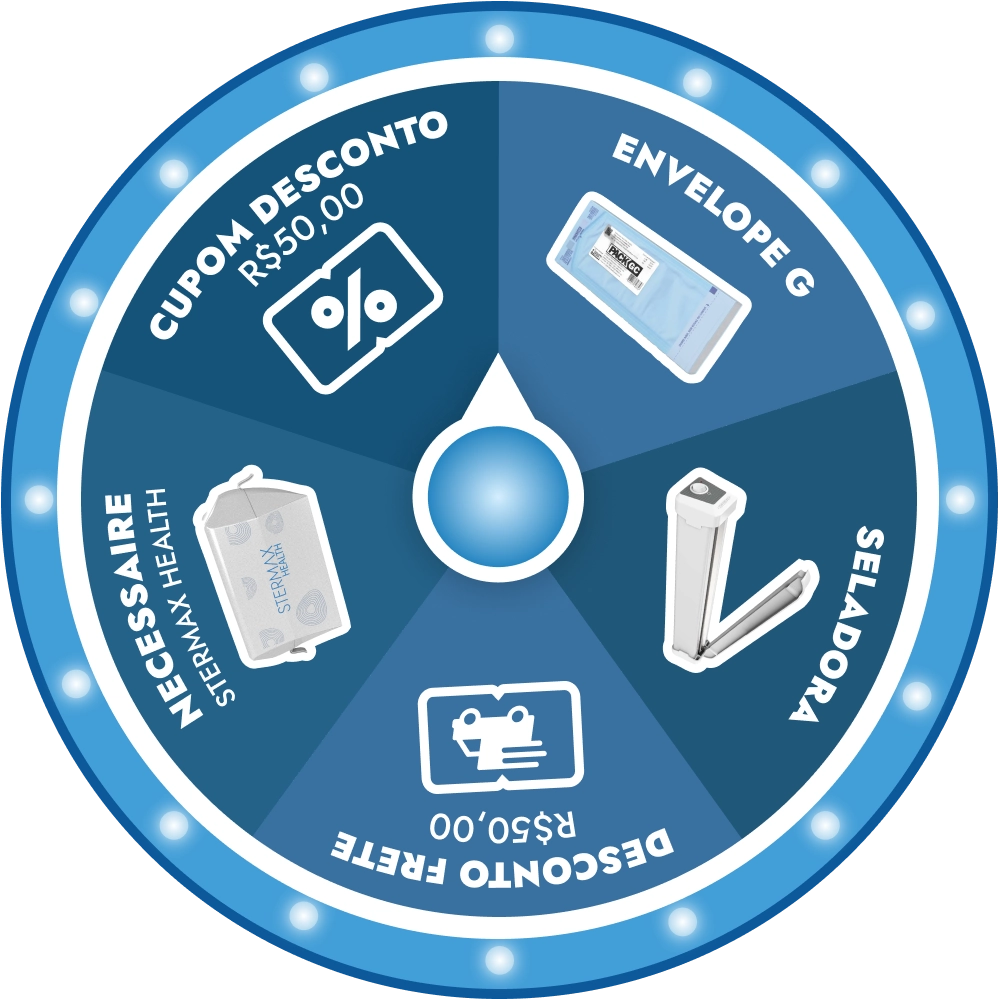
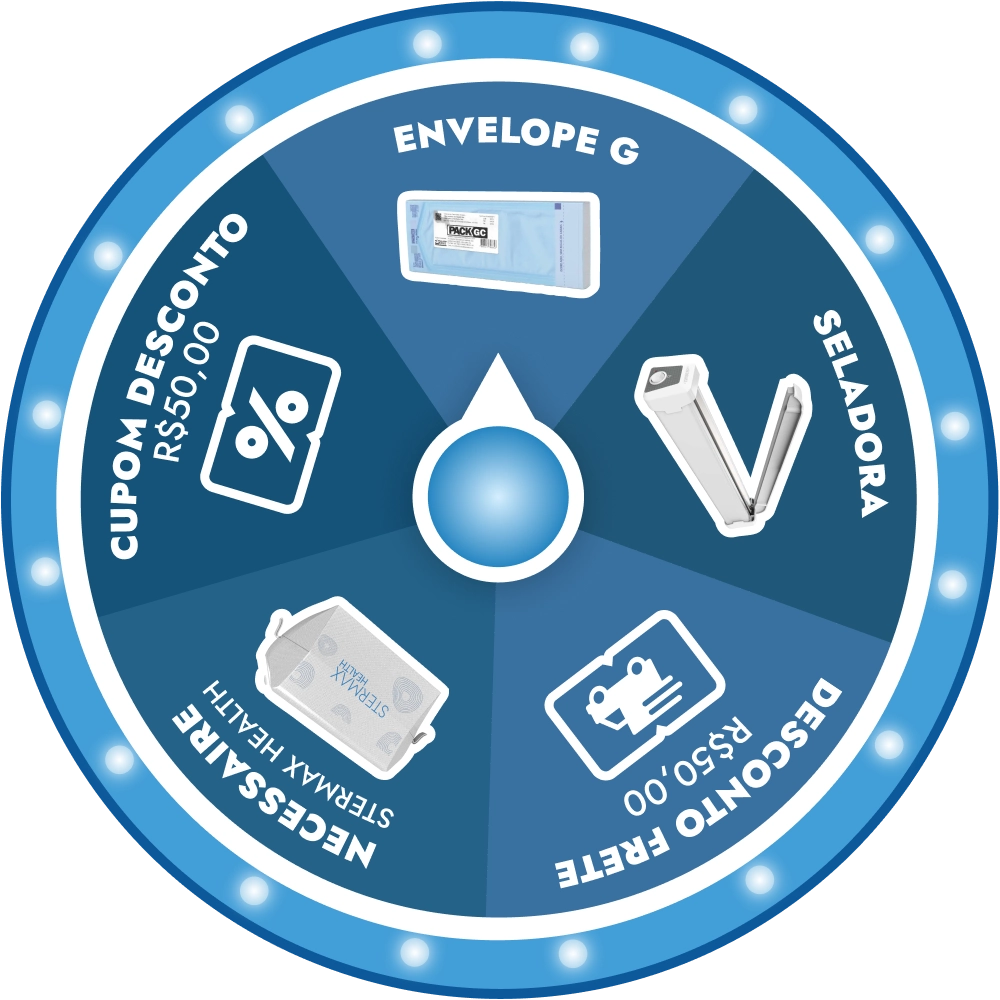
ajustes layout desktop

diff --git a/styles/css/vtex.store-newsletter.css b/styles/css/vtex.store-newsletter.css
@@ -34,6 +34,7 @@
 .nameInputContainer--inputs-form-roleta :global(.vtex-input-prefix__group),
 .emailInputContainer--inputs-form-roleta :global(.vtex-input-prefix__group) {
   border: none;
+  height: 30px;
 }
 
 .phoneInputContainer--inputs-form-roleta,

diff --git a/styles/css/vtex.store-components.css b/styles/css/vtex.store-components.css
@@ -1,7 +1,7 @@
 /* CSS ROLETA ABAIXO */
 .imageElement--roleta-primeira-tela {
-  width: 450px;
-  margin-top: 42px;
+  width: 400px;
+  margin-top: 20px;
 }
 
 .imageElement--imagem-link-para-roleta {

diff --git a/styles/css/vtex.flex-layout.css b/styles/css/vtex.flex-layout.css
@@ -14,7 +14,9 @@
 
 .flexRow--row-form-roleta {
   min-width: 400px;
-  margin: 0 0 70px 40px;
+  margin: 0;
+  position: relative;
+  top: -30px
 }
 
 .flexRowContent--row-form-roleta {
